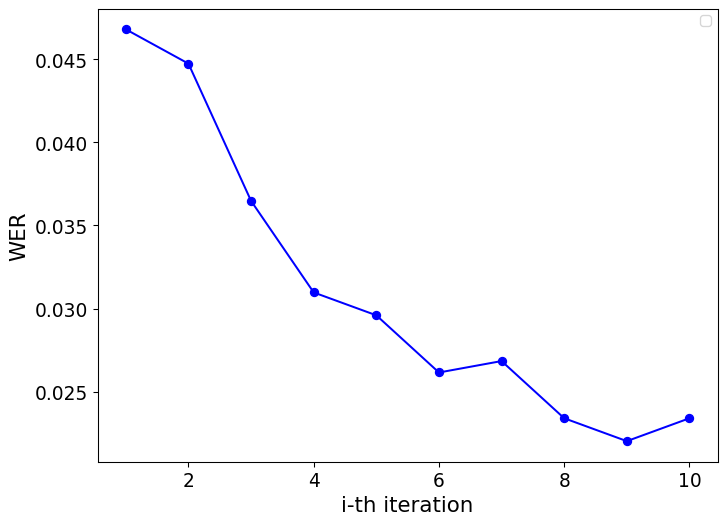
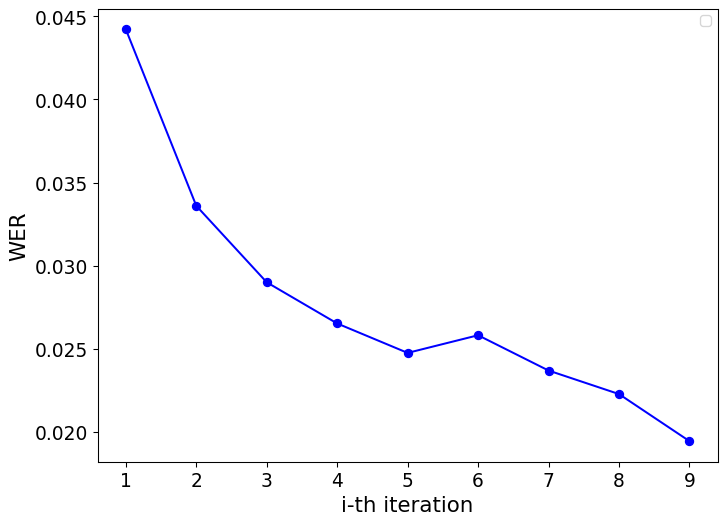
feat: fix rq2 with using the first iteration as test set

diff --git a/examples/rq1.py b/examples/rq1.py
@@ -9,8 +9,6 @@ from crossasr import CrossASR
 import json
 import utils
 
-
-from asr.wav2vec2 import Wav2Vec2
 from asr.finetuned_deepspeech import FinetunedDeepSpeech
 
 
@@ -24,6 +22,11 @@ def trainDeepSpeech(f, mode="first"):
     for o in output:
         print(o)
         f.write(o + "\n")
+
+def substract(df1, df2):
+    test_set = set(df2["wav_filename"])
+    df = df1[df1["wav_filename"].apply(lambda x: x not in test_set)]
+    return df
 
 
 if __name__ == "__main__":
@@ -45,62 +48,44 @@ if __name__ == "__main__":
     texts = utils.readCorpus(corpus_fpath=corpus_fpath)
     crossasr.setCorpus(texts=texts)
     
-    # crossasr.runAllIterations()
-    # crossasr.printStatistic()
-    
-    # crossasr.runOneIteration()
-    # crossasr.printStatistic()
-    # crossasr.removeASR("deepspeech")
-    # new_asr = Wav2Vec2()
-    # crossasr.addASR(new_asr)
-    # crossasr.runOneIteration()
-    # crossasr.printStatistic()
-    
-    # TODO:
-    # prepare folder containing audio files and transcriptions
-    # mount the folder in the source code for retraining Deepspeech
-    #   (loop for each iteration)
-    #   run crossasr for 1 iteration
-    #   save audio files and transcription in the mounted folder
-    #   prepare train and test csv, where the test test is fix for each iteration
-    #   update train csv for each iteration
-    #   train deepspeech
-    #   exchange deepspeech with the fine-tuned model
-    #   save the WER from fine-tuned model
-    #   (until a number of iterations is already performed)
+    crossasr.runOneIteration()
+    crossasr.gatherValidTestCases()
+    valid_data = crossasr.getValidData()
+    test = valid_data.copy()
 
     crossasr.runOneIteration()
     crossasr.gatherValidTestCases()
     valid_data = crossasr.getValidData()
-    test = valid_data.sample(frac=0.50)
-    train = valid_data.drop(test.index)
+    train = substract(valid_data, test)
+
     fine_tune_data_dir = os.path.join(config["output_dir"], "fine_tune_data")
-    if not os.path.exists(fine_tune_data_dir) : os.makedirs(fine_tune_data_dir)
+    if not os.path.exists(fine_tune_data_dir):
+        os.makedirs(fine_tune_data_dir)
     test_path = os.path.join(fine_tune_data_dir, "test.csv")
     train_path = os.path.join(fine_tune_data_dir, "train.csv")
     test.to_csv(test_path, index=False)
     train.to_csv(train_path, index=False)
+
+    # valid_data.to_csv(os.path.join(fine_tune_data_dir, "valid.csv"))
+
     trainDeepSpeech(f, "first")
 
     crossasr.removeASR("deepspeech")
     crossasr.addASR(FinetunedDeepSpeech())
     crossasr.setTargetASR("finetuned_deepspeech")
     crossasr.deleteASRTranscriptions("finetuned_deepspeech")
-    
-    for i in range(1, config["num_iteration"]) :
+
+    for i in range(2, config["num_iteration"]) :
         print(f"ITERATION: {i}")
         f.write(f"ITERATION: {i}\n")
         crossasr.runOneIteration()
         crossasr.gatherValidTestCases()
         valid_data = crossasr.getValidData()
-        train = valid_data.drop(test.index)
-        test.to_csv(test_path, index=False)
+        train = substract(valid_data, test)
         train.to_csv(train_path, index=False)
         trainDeepSpeech(f, "subsequent")
 
     f.close()
-    # print(valid_data)
-
 
     
 
